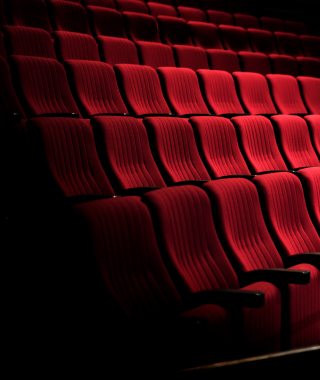
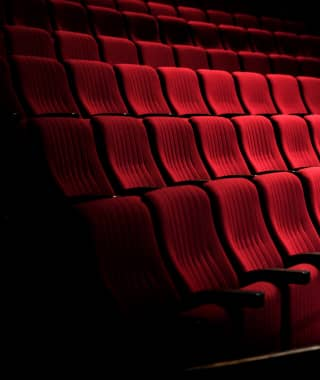
compressed images

diff --git a/src/sass/layout/_my-library.scss b/src/sass/layout/_my-library.scss
@@ -1,28 +1,76 @@
 .my-lib__hero {
-  // border: 1px solid red;
-  min-height: 380px;
-  background-image: linear-gradient(
-    to right,
-    rgba(47, 48, 58, 0.4),
-    rgba(47, 48, 58, 0.4)
-  ),
-  url(../../images/hero_2x.jpg);
+  background-position: center;
+  background-repeat: no-repeat;
+  background-size: cover;
+  border: 1px solid red;
 
-
-
-  @media screen and (max-width: 1199px) {
-    min-height: 370px;
-    max-width: 768px;
+  
+  @include mobile {
+    min-height: 380px;
+    // max-width: 480px;
   }
 
-  @media screen and (min-width: 1200px) {
+  background-image: linear-gradient(
+      83.48deg,
+      #0e0e0e 25.78%,
+      rgba(14, 14, 14, 0) 60.07%
+    ),
+    url(/src/images/red_seats_mob.jpg);
+
+  @include retina {
+    background-image: linear-gradient(
+        83.48deg,
+        #0e0e0e 25.78%,
+        rgba(14, 14, 14, 0) 60.07%
+      ),
+      url(/src/images/red_seats_mob@2x.jpg);
+  }
+
+  @include tablet {
+    min-height: 370px;
+    // max-width: 768px;
+
+    background-image: linear-gradient(
+        83.48deg,
+        #0e0e0e 25.78%,
+        rgba(14, 14, 14, 0) 60.07%
+      ),
+      url(/src/images/red_seats_tab.jpg);
+
+    @include retina {
+      background-image: linear-gradient(
+          83.48deg,
+          #0e0e0e 25.78%,
+          rgba(14, 14, 14, 0) 60.07%
+        ),
+        url(/src/images/red_seats_tab@2x.jpg);
+    }
+  }
+
+  @include desktop {
     min-height: 660px;
-    max-width: 1280px;
+    // max-width: 1280px;
+
+    background-image: linear-gradient(
+        83.48deg,
+        #0e0e0e 25.78%,
+        rgba(14, 14, 14, 0) 60.07%
+      ),
+      url(/src/images/red_seats_desk.jpg);
+
+    @include retina {
+      background-image: linear-gradient(
+          83.48deg,
+          #0e0e0e 25.78%,
+          rgba(14, 14, 14, 0) 60.07%
+        ),
+        url(/src/images/red_seats_desk@2x.jpg);
+    }
   }
 }
 
 .my-lib__hero-container {
-  // border: 1px solid orange;
+  border: 1px solid orange;
   display: flex;
   flex-direction: column;
 }
@@ -31,10 +79,10 @@
   display: inline-block;
   max-width: 235px;
   margin-bottom: 8px;
-  @media screen and (min-width: 768px) {
+  @include tablet {
     max-width: 332px;
   }
-  @media screen and (min-width: 1200px) {
+  @include desktop {
     max-width: 464px;
     margin-bottom: 16px;
   }
@@ -46,10 +94,10 @@
   font-weight: 400;
   font-size: 14px;
   line-height: 16px;
-  @media screen and (min-width: 768px) {
+  @include tablet {
     max-width: 357px;
   }
-  @media screen and (min-width: 1200px) {
+  @include desktop {
     max-width: 464px;
 
     line-height: 19px;

diff --git a/src/sass/layout/_header.scss b/src/sass/layout/_header.scss
@@ -2,9 +2,9 @@
   background-color: $black-color;
   padding: 8px 20px;
 
-  // border: 2px solid green;
+  border: 2px solid green;
 
-  @media screen and (min-width: 769px) {
+  @include tablet {
     padding: 12px 32px;
   }
 }
@@ -18,7 +18,7 @@
 .logo {
   display: flex;
   align-items: center;
-  @media screen and (min-width:1199px) {
+  @include desktop {
     margin-right: 100px;
   }
 
@@ -26,7 +26,7 @@
     width: 32px;
     height: 32px;
     background-color: $orange-color;
-    @media screen and (min-width: 768px) {
+    @include tablet {
       margin-right: 8px;
     }
   }
@@ -34,7 +34,7 @@
   &-text {
     display: none;
     color: $white-color;
-    @media screen and (min-width: 768px) {
+    @include tablet {
       display: inline-block;
     }
   }
@@ -55,7 +55,7 @@
 
 .nav-list {
   display: none;
-  @media screen and (min-width: 768px) {
+  @include tablet {
     display: flex;
     gap: 32px;
   }
@@ -77,13 +77,13 @@
   padding: 2px;
   position: relative;
 
-  @media screen and (min-width: 768px) {
+  @include tablet {
     width: 54px;
     height: 20px;
     margin-left: auto;
   }
 
-  @media screen and (min-width: 1200px) {
+  @include desktop {
     width: 60px;
     height: 24px;
   }
@@ -96,12 +96,12 @@
     width: 12px;
     height: 12px;
 
-    @media screen and (min-width: 768px) {
+    @include tablet {
       width: 16px;
       height: 16px;
     }
 
-    @media screen and (min-width: 1200px) {
+    @include desktop {
       width: 18px;
       height: 18px;
     }

diff --git a/src/partials/my-library&load-more.html b/src/partials/my-library&load-more.html
@@ -1,5 +1,5 @@
 <section class="my-lib__hero section">
-    <div class="container my-lib__hero-container">
+    <div class="my-lib__hero-container">
         <h2 class="my-lib__hero-title">Create Your <br> Dream Cinema</h2>
         <p class="my-lib__hero-description">
           Is a guide to designing a personalized movie theater experience with the
